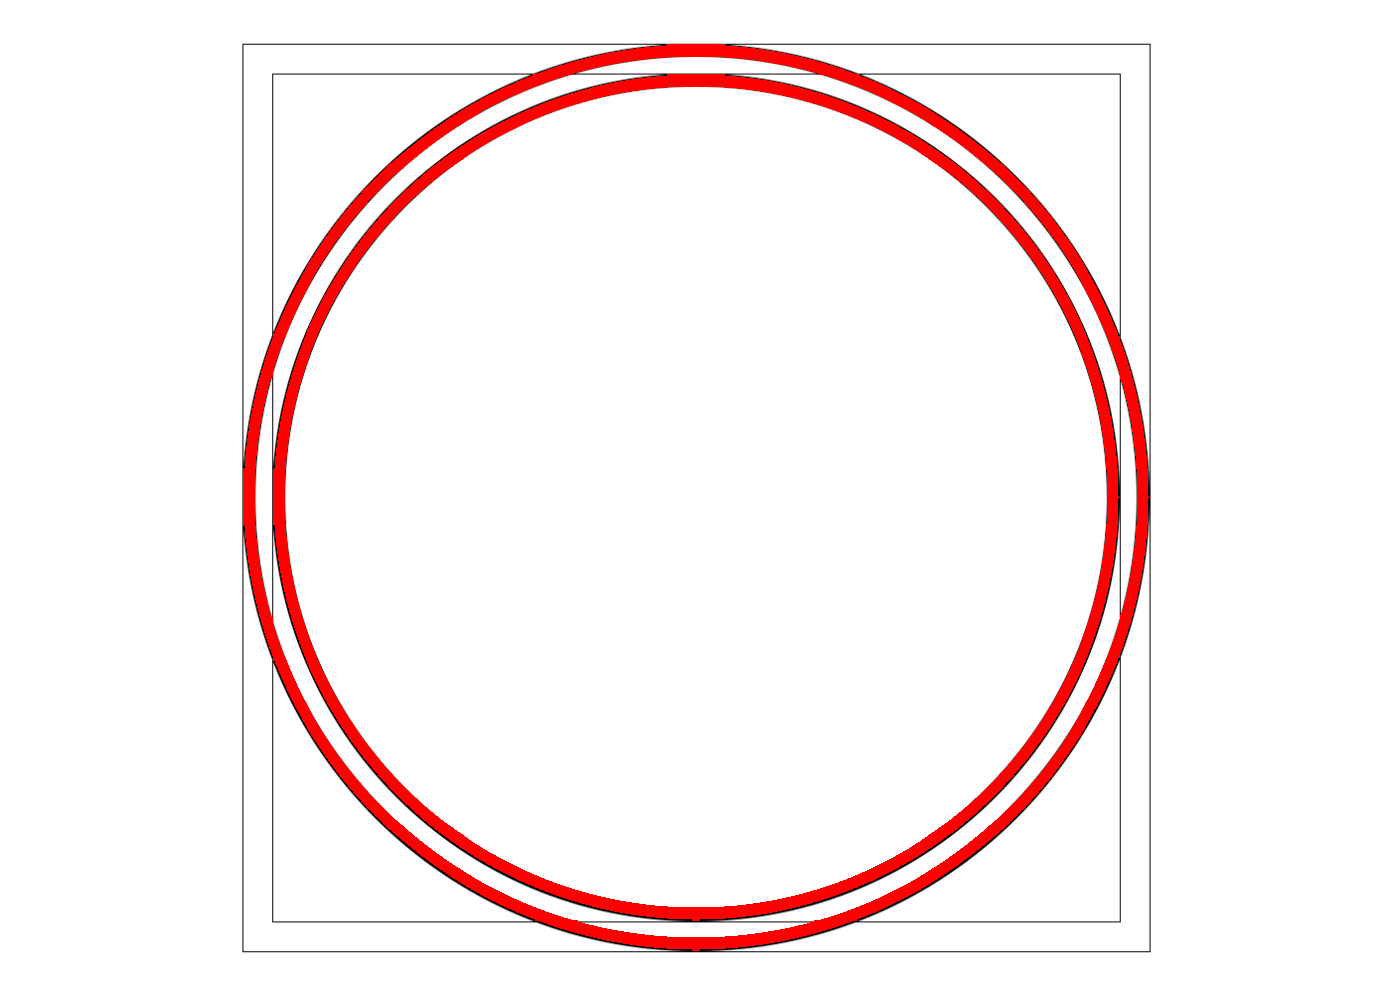
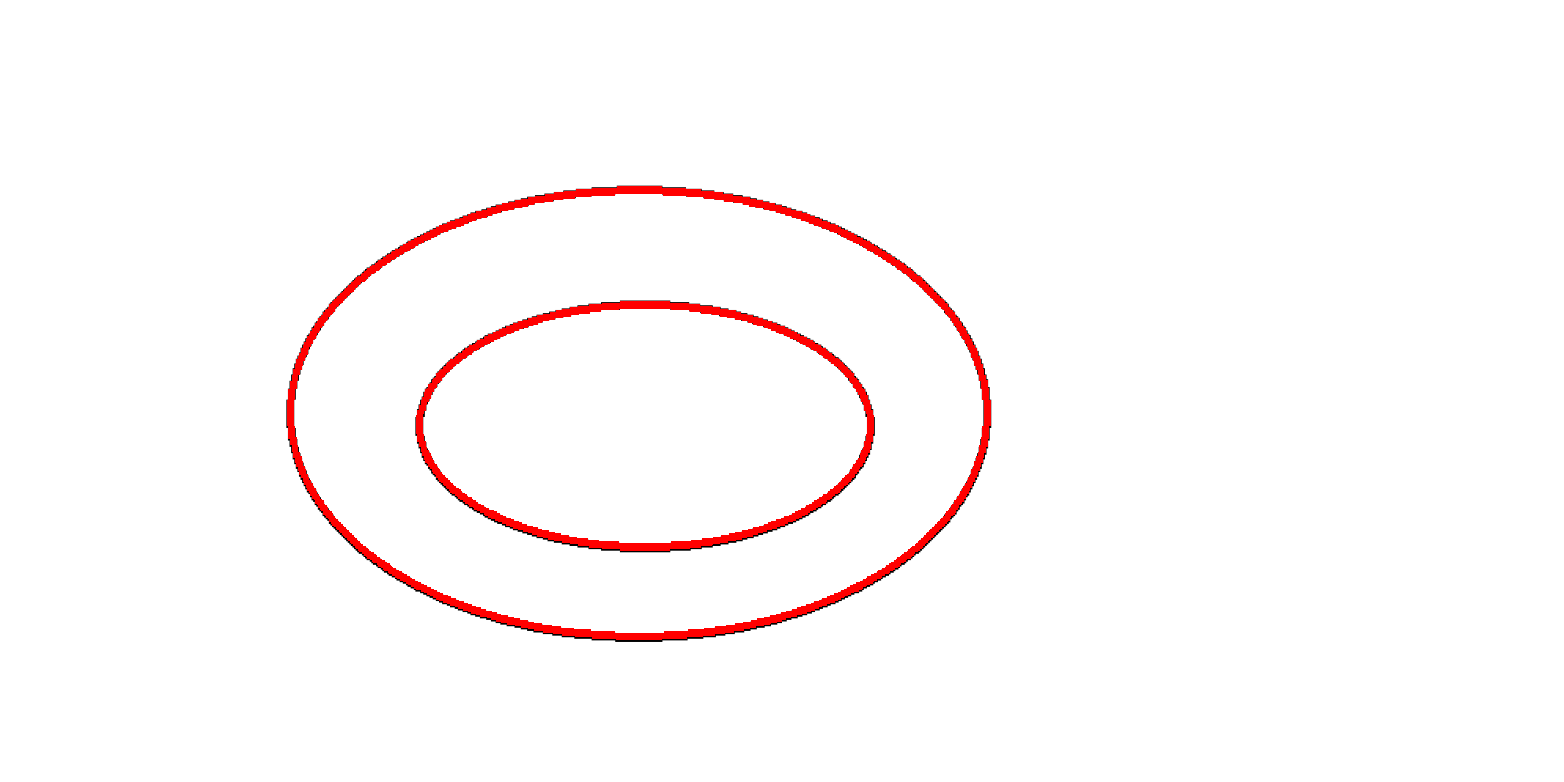
added method for getting nearest contour to red dot

diff --git a/src/TargetRecognize/RedMain.java b/src/TargetRecognize/RedMain.java
@@ -40,7 +40,7 @@ public class RedMain {
 	static BufferedImage myPicture = null;
 	 private static Timer timer;
 	 static String fileName = "";
-
+	 static ArrayList<Contour> edgesArray;
 	public static void main(String[] args) {
 //		consoleTest();
 		try {
@@ -157,9 +157,18 @@ public class RedMain {
 			public void mouseReleased(MouseEvent e) {
 				super.mouseReleased(e);
 				imageLabel.drawRedDot(e.getX(), e.getY());
+				System.out.println("edgesArray size = " + edgesArray.size()); 
+				int nearestContour = getNearestContour(edgesArray, e.getX(), e.getY());
+				System.out.println("between ");
 			}
 		});
 	}
+
+	protected static int getNearestContour(ArrayList<Contour> edgesArray2, int x, int y) {
+		// TODO Auto-generated method stub
+		return 0;
+	}
+
 
 	private static void resizeImage(MyLabel imageLabel, BufferedImage myPicture, ImageIcon imgIcon) { //обычное распознавание кругов
 		System.out.println("circleSearch");
@@ -216,7 +225,7 @@ public class RedMain {
 		imgIcon.setImage(dimg);
 		var tempImg = myPicture.getScaledInstance(newWidth, imageLabel.getHeight(), Image.SCALE_SMOOTH);
 		BufferedImage tempImage = toBufferedImage(tempImg);
-		ArrayList<Contour> edgesArray =  edgeDetector.getContours(tempImage, Color.BLACK, Color.white);
+		edgesArray =  edgeDetector.getContours(tempImage, Color.BLACK, Color.white);
 		imageLabel.drawMyContour(edgesArray, Color.YELLOW);
 		
 	}

diff --git a/src/TargetRecognize/MyContourSearch.java b/src/TargetRecognize/MyContourSearch.java
@@ -163,7 +163,7 @@ public class MyContourSearch {
 		});
 		
 //		drawContour(image, contours1, "target_contour.png");
-		drawContour2(image, contoursList, "target_contour.png");
+//		drawContour2(image, contoursList, "target_contour.png");
 //		drawContour(image, contours3, "target_contour3.png");
 		//		int contourWidth = getContourWidthFromTopEdge(image, topEdge, edgesColor, backColor); 
 //		System.out.println("contourWidth = "+contourWidth);
